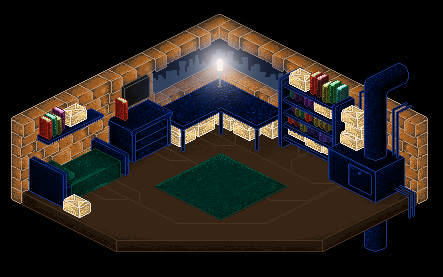
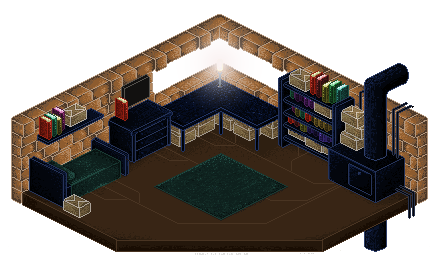
Implement city parallax.

diff --git a/IdealWaffle/wwwroot/app/app.js b/IdealWaffle/wwwroot/app/app.js
@@ -1,7 +1,21 @@
+class CityParallax extends Widget {
+    constructor() {
+        super();
+        this.texture = Texture.fromImage("assets/Town.png");
+        this.clipSize = new Vector2(136, 56);
+        this.parallaxSize = new Vector2(39, 10);
+        this.clipStartOffset = new Vector2(19.5, 5);
+        this.offset = Vector2.zero;
+    }
+    render(renderer) {
+        const clipStart = this.offset.multiply(this.parallaxSize);
+        renderer.renderTexture(this.texture, 0, 0, this.clipSize.x * 2, this.clipSize.y * 2, this.clipStartOffset.x + clipStart.x, this.clipStartOffset.y + clipStart.y, this.clipSize.x, this.clipSize.y);
+    }
+}
 class Game extends Application {
     constructor() {
         super(886, 554);
-        this.renderer.backgroundColor = Color.skyblue;
+        this.renderer.backgroundColor = Color.black;
         const root = new Room();
         this.root = root;
         this.renderer.imageSmoothing = false;
@@ -137,9 +151,12 @@ class Room extends Widget {
         this.transformer = new PositionTransformer();
         this.characterPosition = new Vector2(50, 50);
         this.characterVelocity = Vector2.zero;
-        this.characterSpeed = 1;
+        this.characterSpeed = 0.5;
         this.debug = new Label();
         this.itemLayer = new Widget();
+        this.cityParallax = new CityParallax();
+        this.cityParallax.position = new Vector2(304, 76);
+        this.addChild(this.cityParallax);
         this.room.size = new Vector2(886, 554);
         this.character.size = new Vector2(23, 26);
         this.character.pivot = new Vector2(0.5, 1);
@@ -157,6 +174,7 @@ class Room extends Widget {
     update(delta) {
         this.updateCharacterPosition();
         this.updateItemHighlights();
+        this.updateParallax();
         super.update(delta);
     }
     updateCharacterPosition() {
@@ -186,6 +204,15 @@ class Room extends Widget {
             item.highlighted = this.characterPosition.subtract(item.cartesianPosition).length <= 5;
         }
     }
+    updateParallax() {
+        const leftX = this.transformer.isometricLeft.x;
+        const rightX = this.transformer.isometricRight.x;
+        const x = (this.character.x - leftX) / (rightX - leftX);
+        const bottomY = this.transformer.isometricBottom.y;
+        const topY = this.transformer.isometricTop.y;
+        const y = (this.character.y - topY) / (bottomY - topY);
+        this.cityParallax.offset.set(x, y);
+    }
     getVelocityDirection(key) {
         switch (key) {
             case 47:
@@ -203,7 +230,7 @@ class Room extends Widget {
     createItem(type) {
         switch (type) {
             case 0:
-                return new Item(new Vector2(5, 10), this.transformer, Texture.fromImage("assets/Apple.png"), "Apple");
+                return new Item(new Vector2(25, 25), this.transformer, Texture.fromImage("assets/Apple.png"), "Apple");
             default:
                 throw "Error creating item";
         }
@@ -245,7 +272,7 @@ class Item extends Sprite {
                 .drawRoundedRect(this.tooltip.x - this.tooltip.width / 2, this.tooltip.y - this.tooltip.height * 0.9, this.tooltip.width, this.tooltip.height * 1.2, 5);
             renderer.restore();
             renderer.render(this.tooltip);
-            renderer.context.globalCompositeOperation = "color-burn";
+            renderer.context.globalCompositeOperation = "lighter";
         }
         super.render(renderer);
         renderer.restore();

diff --git a/IdealWaffle/app/Room.ts b/IdealWaffle/app/Room.ts
@@ -4,13 +4,16 @@ class Room extends Widget {
     private transformer = new PositionTransformer();
     private characterPosition = new Vector2(50, 50);
     private characterVelocity = Vector2.zero;
-    private characterSpeed = 1;
+    private characterSpeed = 0.5;
     private mousePosition: Vector2;
     private debug = new Label();
     private itemLayer = new Widget();
+    private cityParallax = new CityParallax();
 
     constructor() {
         super();
+        this.cityParallax.position = new Vector2(304, 76);
+        this.addChild(this.cityParallax);
         this.room.size = new Vector2(886, 554);
         this.character.size = new Vector2(23, 26);
         this.character.pivot = new Vector2(0.5, 1);
@@ -29,6 +32,7 @@ class Room extends Widget {
     update(delta: number): void {
         this.updateCharacterPosition();
         this.updateItemHighlights();
+        this.updateParallax();
         super.update(delta);
     }
 
@@ -61,6 +65,16 @@ class Room extends Widget {
         }
     }
 
+    private updateParallax() {
+        const leftX = this.transformer.isometricLeft.x;
+        const rightX = this.transformer.isometricRight.x;
+        const x = (this.character.x - leftX) / (rightX - leftX);
+        const bottomY = this.transformer.isometricBottom.y;
+        const topY = this.transformer.isometricTop.y;
+        const y = (this.character.y - topY) / (bottomY - topY);
+        this.cityParallax.offset.set(x, y);
+    }
+
     private getVelocityDirection(key: Key) {
         switch (key) {
             case Key.Left:
@@ -79,7 +93,7 @@ class Room extends Widget {
     createItem(type: ItemType): Item {
         switch (type) {
             case ItemType.Apple:
-                return new Item(new Vector2(5, 10), this.transformer, Texture.fromImage("assets/Apple.png"), "Apple");
+                return new Item(new Vector2(25, 25), this.transformer, Texture.fromImage("assets/Apple.png"), "Apple");
             default:
                 throw "Error creating item";
         }
@@ -129,7 +143,7 @@ class Item extends Sprite {
                 this.tooltip.y - this.tooltip.height * 0.9, this.tooltip.width, this.tooltip.height * 1.2, 5);
             renderer.restore();
             renderer.render(this.tooltip);
-            renderer.context.globalCompositeOperation = "color-burn";
+            renderer.context.globalCompositeOperation = "lighter";
         }
         super.render(renderer);
         renderer.restore();

diff --git a/IdealWaffle/app/CityParallax.ts b/IdealWaffle/app/CityParallax.ts
@@ -1,0 +1,17 @@
+class CityParallax extends Widget {
+    private readonly texture = Texture.fromImage("assets/Town.png");
+    private readonly clipSize = new Vector2(136, 56);
+    private readonly parallaxSize = new Vector2(39, 10);
+    private readonly clipStartOffset = new Vector2(19.5, 5);
+    offset = Vector2.zero;
+
+    constructor() {
+        super();
+    }
+
+    render(renderer: Renderer): void {
+        const clipStart = this.offset.multiply(this.parallaxSize);
+        renderer.renderTexture(this.texture, 0, 0, this.clipSize.x * 2, this.clipSize.y * 2,
+            this.clipStartOffset.x + clipStart.x, this.clipStartOffset.y + clipStart.y, this.clipSize.x, this.clipSize.y);
+    }
+}

diff --git a/IdealWaffle/wwwroot/lib/mechanism.d.ts b/IdealWaffle/wwwroot/lib/mechanism.d.ts
@@ -230,7 +230,7 @@ declare class Renderer {
     globalAlpha: number;
     render(renderObject: RenderObject): void;
     renderTexture(texture?: Texture, x?: number, y?: number, width?: number, height?: number, sx?: number, sy?: number, sWidth?: number, sHeight?: number): void;
-    renderText(text: string, x: number, y: number, color: Color): void;
+    renderText(text: string, x?: number, y?: number, color?: Color): void;
     measureText(text: string): number;
     private renderUndefinedTexture(x?, y?, width?, height?);
     translate(x: number, y: number): void;

diff --git a/IdealWaffle/app/Game.ts b/IdealWaffle/app/Game.ts
@@ -1,7 +1,7 @@
 class Game extends Application {
     constructor() {
         super(886, 554);
-        this.renderer.backgroundColor = Color.skyblue;
+        this.renderer.backgroundColor = Color.black;
         const root = new Room();
         this.root = root;
         this.renderer.imageSmoothing = false;

diff --git a/IdealWaffle/wwwroot/lib/mechanism.js b/IdealWaffle/wwwroot/lib/mechanism.js
@@ -295,7 +295,9 @@ class Renderer {
     }
     renderText(text, x = 0, y = 0, color) {
         this.save();
-        this.vectorGraphics.fillStyle(color);
+        if (color) {
+            this.vectorGraphics.fillStyle(color);
+        }
         this.context.fillText(text, x, y);
         this.restore();
     }
